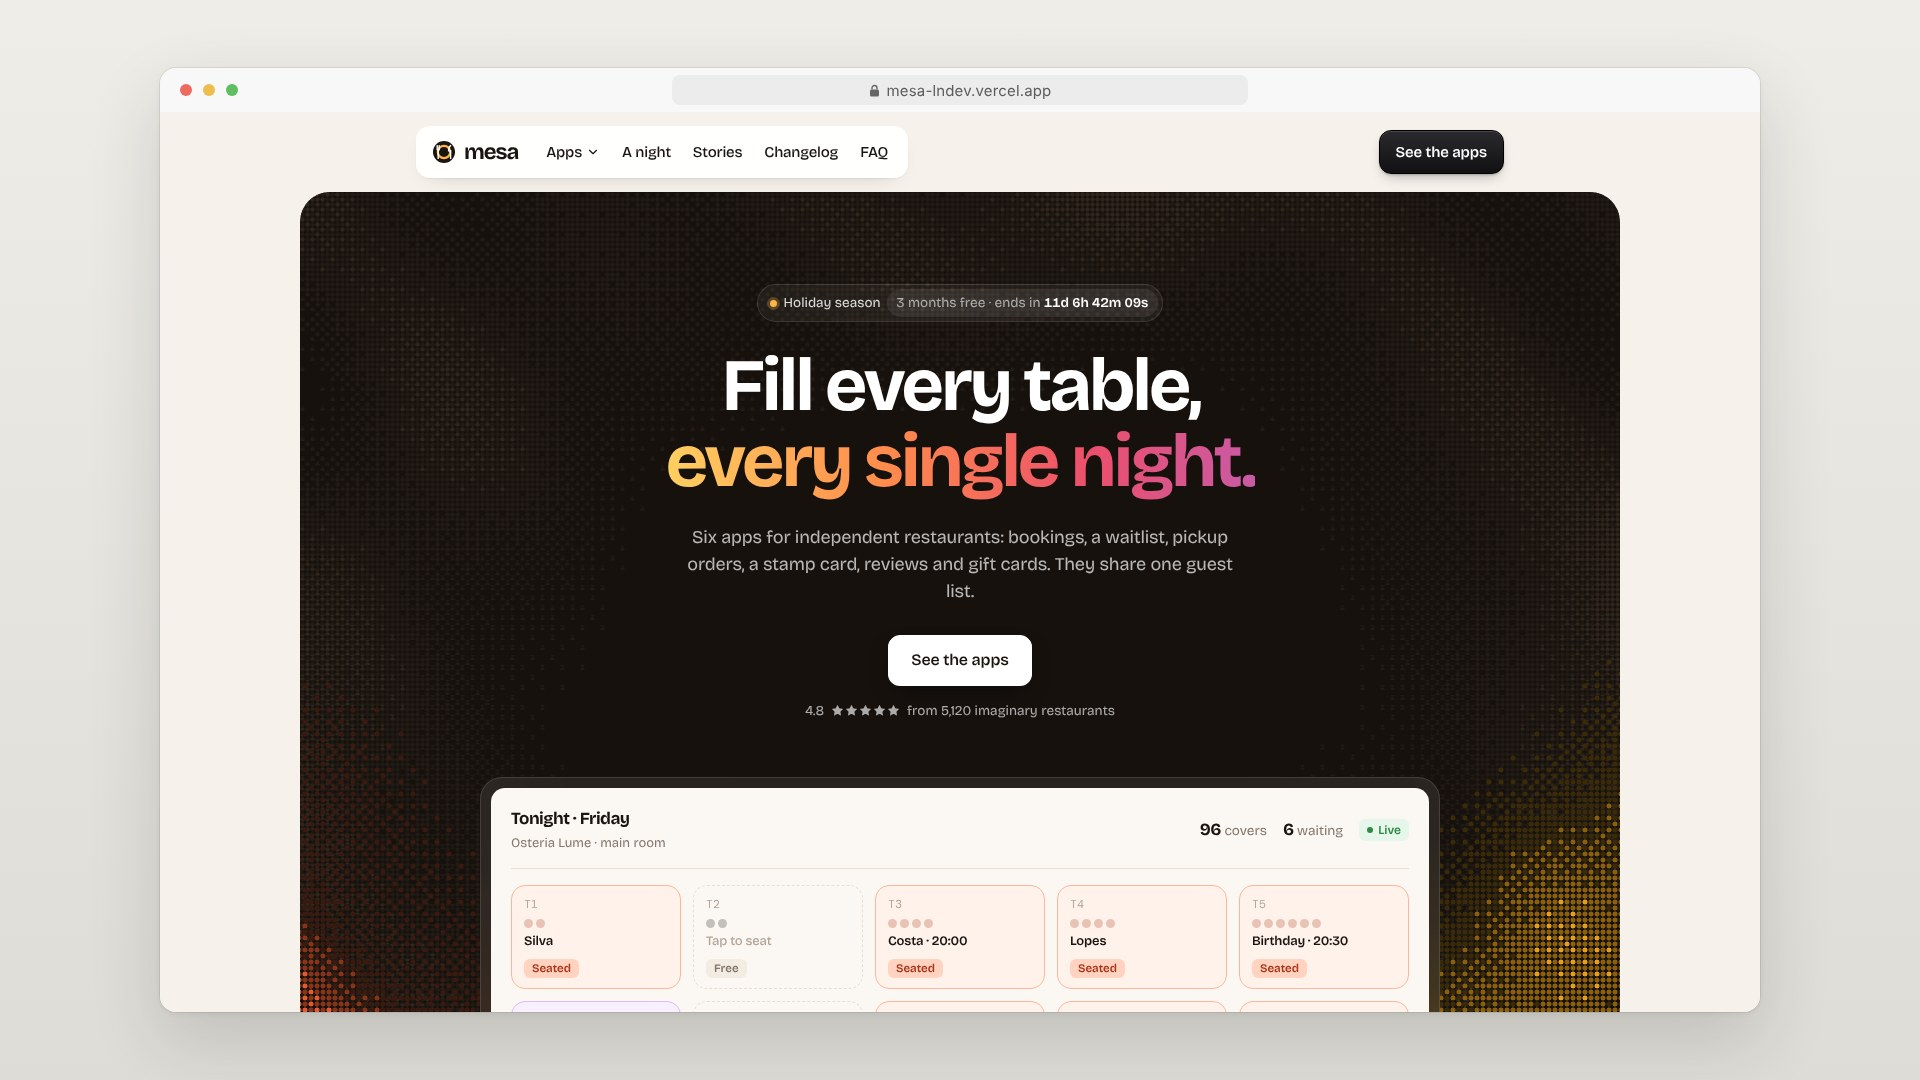
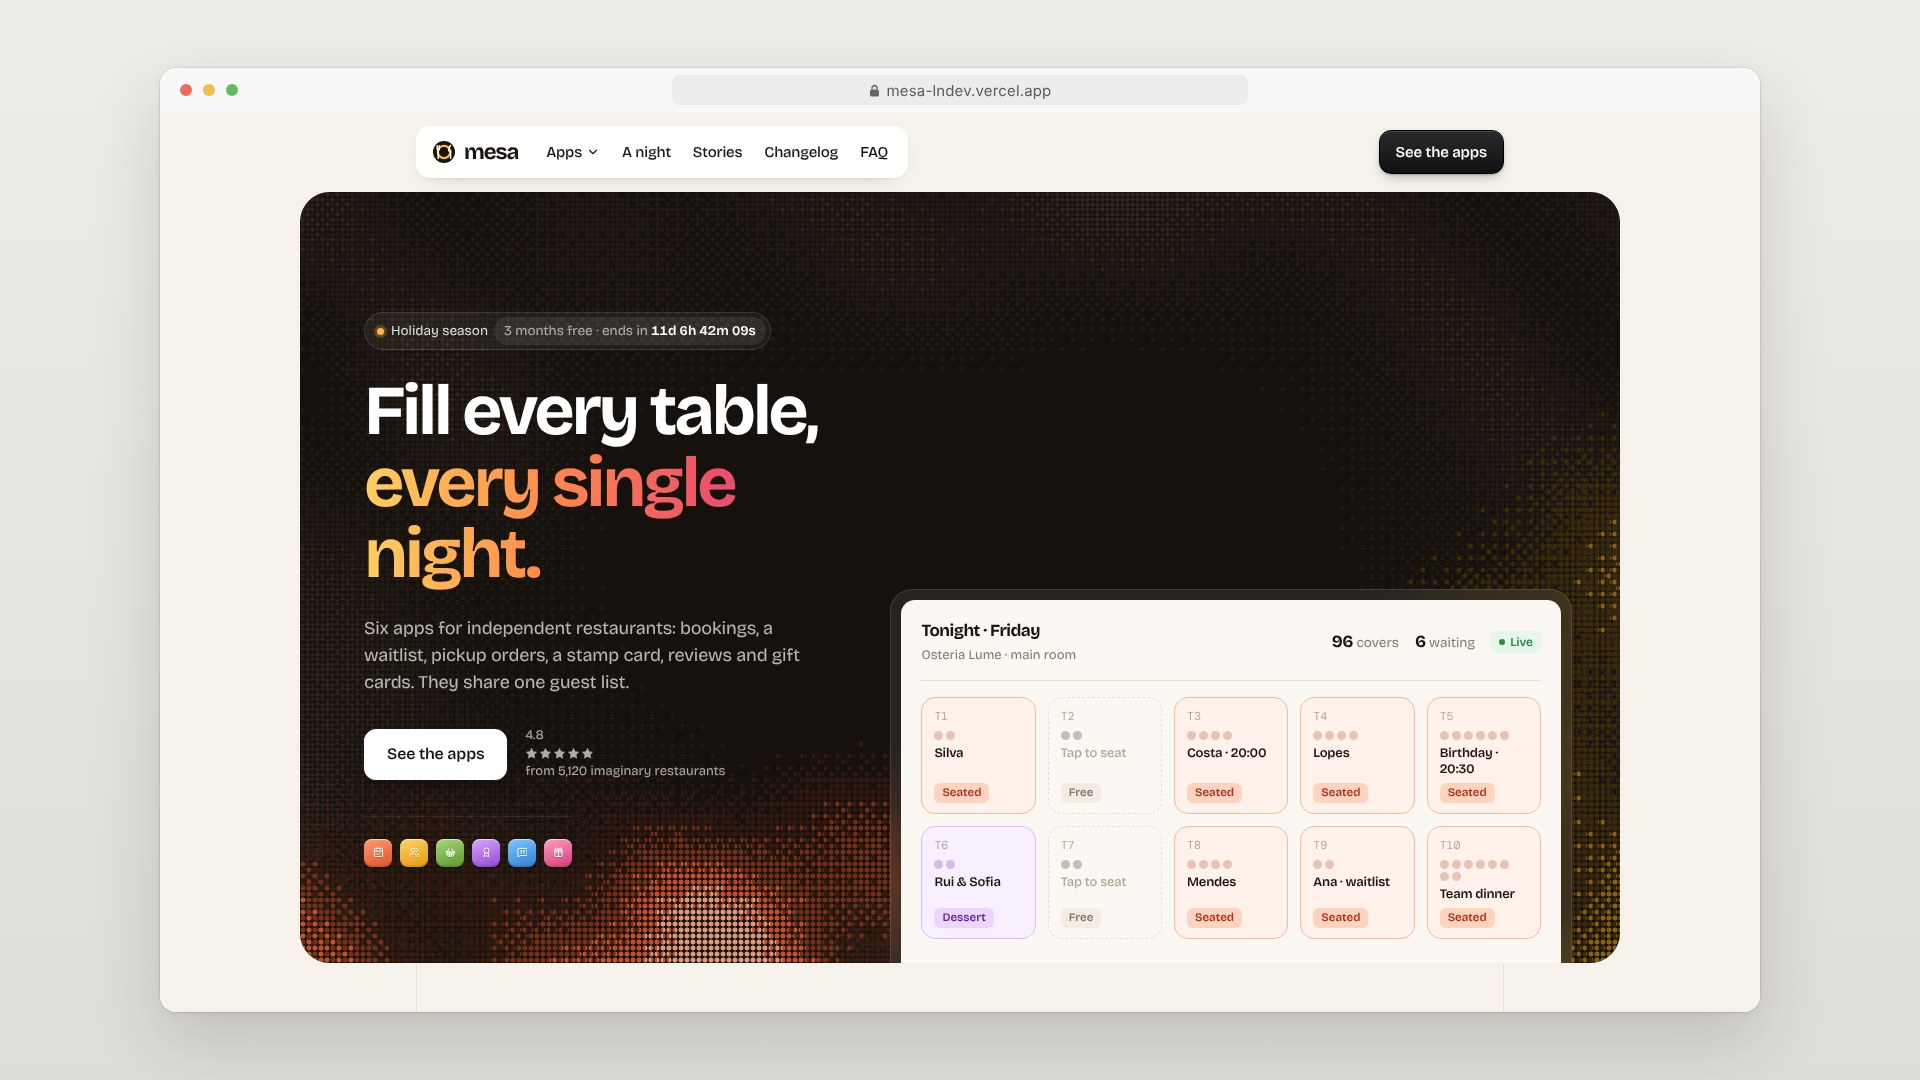
feat: keep Mesa's floor plan inside the hero card and refresh its showcase cover

diff --git a/landing-pages/mesa/app/globals.css b/landing-pages/mesa/app/globals.css
@@ -3074,7 +3074,7 @@ body {
 }
 .hero-split .hero-shot {
   max-width: none;
-  margin: 0;
+  margin: 0 48px 0 0;
 }
 .hero-split .hero-edges.hero-edges-r {
   top: -220px;
@@ -3084,13 +3084,10 @@ body {
   height: calc(100% + 220px);
 }
 .hero-split .hero-window {
-  border-radius: 22px 0 0 0;
-  border-right: 0;
-  padding: 10px 0 0 10px;
+  padding: 10px 10px 0;
 }
 .hero-split .floor {
-  border-radius: 14px 0 0 0;
-  padding-right: 28px;
+  border-radius: 14px 14px 0 0;
 }
 @media (max-width: 1279px) {
   .hero-split .floor-grid {
@@ -3332,6 +3329,9 @@ body {
   }
   .hero-split .floor-grid .tbl:nth-child(n + 9) {
     display: flex;
+  }
+  .hero-split .hero-shot {
+    margin-right: 0;
   }
   .hero-rise {
     width: 70%;
